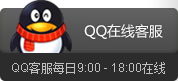
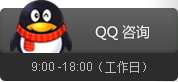
改左边导航的QQ
git-svn-id: http://192.168.0.5/svn/Member/trade/webseller@10692 8c2d0303-d7d2-0546-a2d7-8b6cbec2f4b4

diff --git a/App/View/left.html b/App/View/left.html
@@ -29,6 +29,6 @@
             <a target='blank' href="tencent://message/?uin=<?=$qq_num?>&Site=qq&Menu=yes">
                 <img src="<?=StaticDir?>1.0/images/QQser.png">
             </a>
-            <p>您还可以选择<a href="javascript:;" onclick='window.open("http://p.qiao.baidu.com/im/index?siteid=7918603&ucid=1268165");'>联系在线客服</a></p>
+            <p>您还可以<a href="javascript:;" onclick='window.open("http://p.qiao.baidu.com/im/index?siteid=7918603&ucid=1268165");'>联系在线客服</a></p>
         </div>
     </div>
